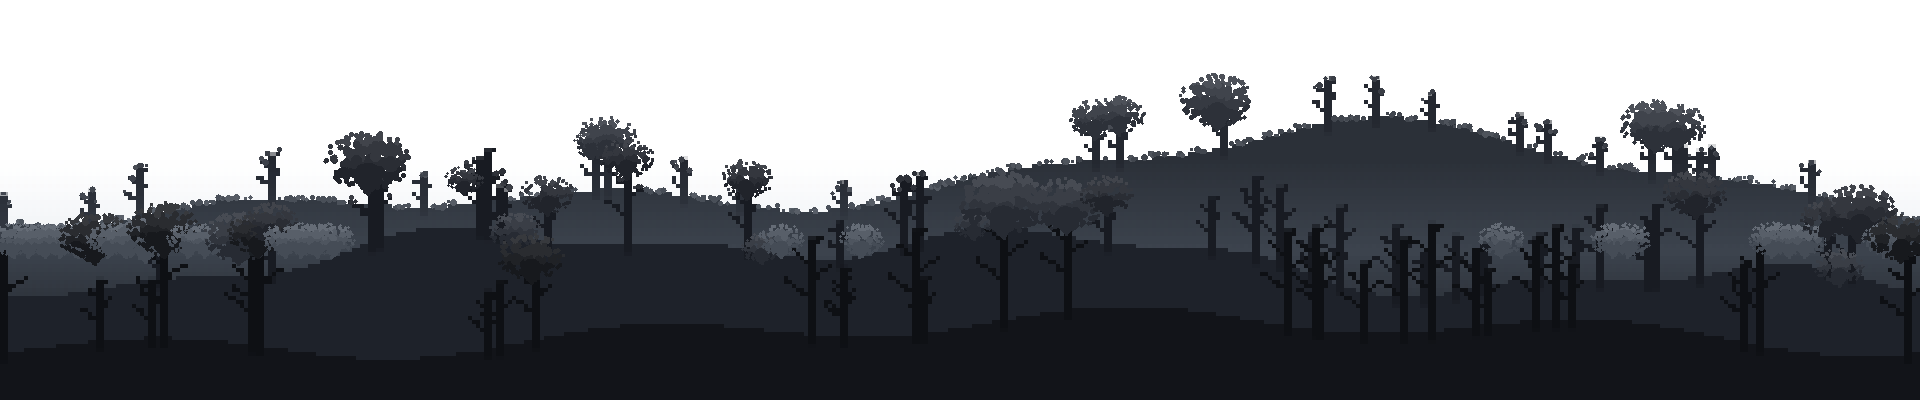
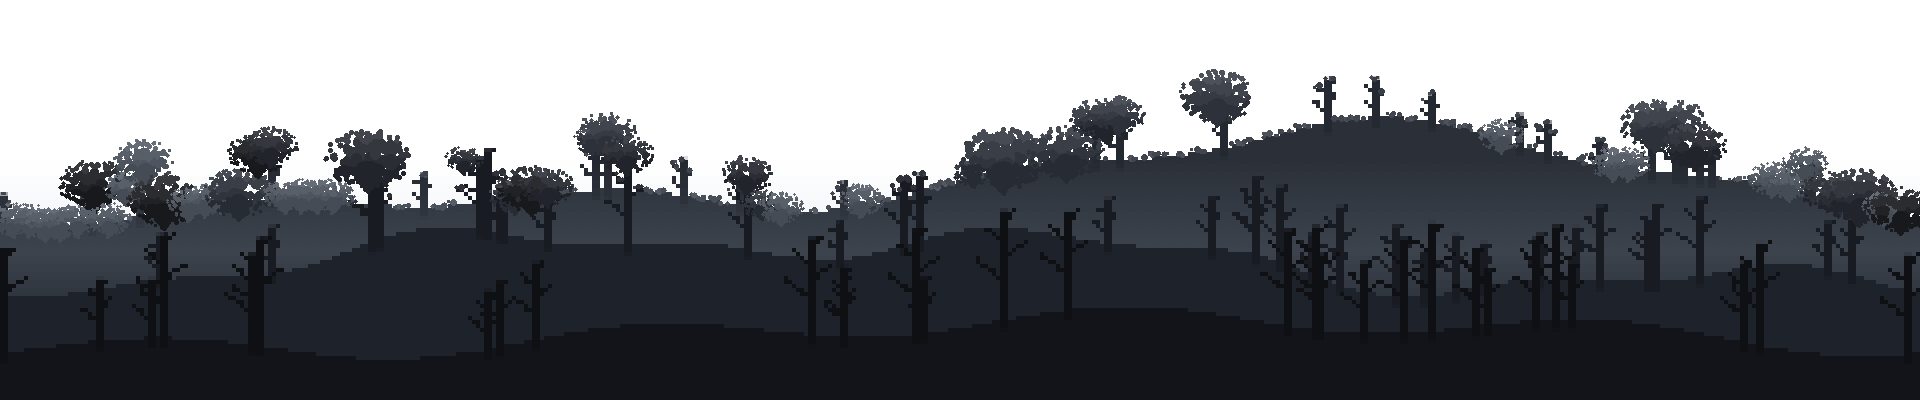
원경: 갓이 줄기 중턱에 얹혀 맨 줄기가 위로 솟던 것
53그루 중 42그루가 갓이 줄기 중턱(16~76px 아래)에 얹혀서, 갓 위로 맨 줄기가
삐죽 솟아 있었다. 나무가 아니라 장대에 덤불을 끼워 둔 그림이었다.

■ 줄기 꼭대기를 잘못 찾고 있었다

  '좁고 긴 세로 획' 판정이 내놓는 y 를 그대로 갓 자리로 썼는데, 그게 줄기
  꼭대기라는 보장이 없다. 실측하니 ty 가 거의 전부 244 로 같았다 — 언덕 능선
  가장자리를 줄기로 오인하고 있었다.

■ 색으로 따라 올라가는 것도 안 됐다

  원본은 먼 줄기를 **세로 그라데이션**으로 그린다. 열 하나를 찍어 보면
  36,40,48 → 38,42,50 → 39,44,52 → 41,45,54 … 로 4~8px 마다 색이 바뀌고,
  꼭대기 20~50px 은 알파가 1~24 로 깔려 있다(원경의 공기감이다). 같은 색을
  따라가는 어떤 방법도 몇 칸 못 가서 끊긴다.

■ '칠해졌나'만 본다

  그 열에서 알파 60 이상인 가장 위 칸을 줄기 꼭대기로 삼는다. 그림이 어떻게
  그려졌든 흔들리지 않고, 눈에 보이는 끝과 같다.
  갓 위로 줄기가 솟는 나무 53그루 중 0그루로 확인.

Claude-Session: https://claude.ai/code/session_015bTXkb4q3SzK7wZ8JdbtYP

diff --git a/game/index.html b/game/index.html
@@ -4,7 +4,7 @@
 <meta charset="utf-8">
 <meta name="viewport" content="width=device-width,initial-scale=1">
 <title>Ashfall Chronicles — 별이 잠든 땅</title>
-<link rel="stylesheet" href="css/style.css?v=195">
+<link rel="stylesheet" href="css/style.css?v=196">
 </head>
 <body>
 
@@ -447,19 +447,19 @@
   </div>
 </div>
 
-<script src="js/util.js?v=195"></script>
-<script src="js/data.js?v=195"></script>
-<script src="js/world.js?v=195"></script>
-<script src="js/tileart.js?v=195"></script>
-<script src="js/itemart.js?v=195"></script>
-<script src="js/titlebg.js?v=195"></script>
+<script src="js/util.js?v=196"></script>
+<script src="js/data.js?v=196"></script>
+<script src="js/world.js?v=196"></script>
+<script src="js/tileart.js?v=196"></script>
+<script src="js/itemart.js?v=196"></script>
+<script src="js/titlebg.js?v=196"></script>
 <!-- 매니페스트는 sprites.js 보다 먼저. file:// 에서 fetch 가 막히므로 <script> 로 넣는다 -->
-<script src="assets/sprites-manifest.js?v=195"></script>
-<script src="assets/sprites.js?v=195"></script>
-<script src="js/entity.js?v=195"></script>
-<script src="js/factory.js?v=195"></script>
-<script src="js/ui.js?v=195"></script>
-<script src="js/music.js?v=195"></script>
-<script src="js/game.js?v=195"></script>
+<script src="assets/sprites-manifest.js?v=196"></script>
+<script src="assets/sprites.js?v=196"></script>
+<script src="js/entity.js?v=196"></script>
+<script src="js/factory.js?v=196"></script>
+<script src="js/ui.js?v=196"></script>
+<script src="js/music.js?v=196"></script>
+<script src="js/game.js?v=196"></script>
 </body>
 </html>

diff --git a/tools/mkforestbg.py b/tools/mkforestbg.py
@@ -93,11 +93,28 @@ def find_trees(px, W, H):
             runs[-1].append(x)
         else:
             runs.append([x])
+    def ink_top(x):
+        """그 열에서 **눈에 보일 만큼 칠해진 가장 위 칸.**
+
+        갓을 얹을 자리는 여기다. 위의 판정이 내놓는 y 를 그대로 쓰면 안 된다 —
+        실측하니 53그루 중 42그루가 줄기 중턱(16~76px 아래)에 걸렸고, 거기에
+        갓을 얹으니 **갓 위로 맨 줄기가 삐죽 솟아** 있었다.
+
+        색으로 줄기를 따라 올라가는 것도 안 된다. 원본은 먼 줄기를 **세로
+        그라데이션**으로 그려서(위로 갈수록 밝다: 36,40,48 → 38,42,50 → …)
+        같은 색이 4~8px 밖에 안 이어지고, 게다가 꼭대기 20~50px 은 알파가
+        1~24 로 깔려 있다. 색을 맞추는 어떤 방법도 몇 칸 못 가서 끊긴다.
+        '칠해졌나'만 보는 쪽이 그림이 어떻게 그려졌든 흔들리지 않는다."""
+        for y in range(H):
+            if px[x, y][3] >= 60:
+                return y
+        return H
+
     trees = []
     for r in runs:
         if len(r) > 26:                           # 이만큼 넓으면 나무가 아니다
             continue
-        ty = min(tops[x][0] for x in r)
+        ty = min(ink_top(x) for x in r)
         cx = sum(r) // len(r)
         # 색은 줄기에서 가장 흔한 것으로. 한 점만 찍으면 반투명 가장자리
         # (RGB 에 아무 값이나 들어 있다)를 집어 갓이 흰색으로 튄다
